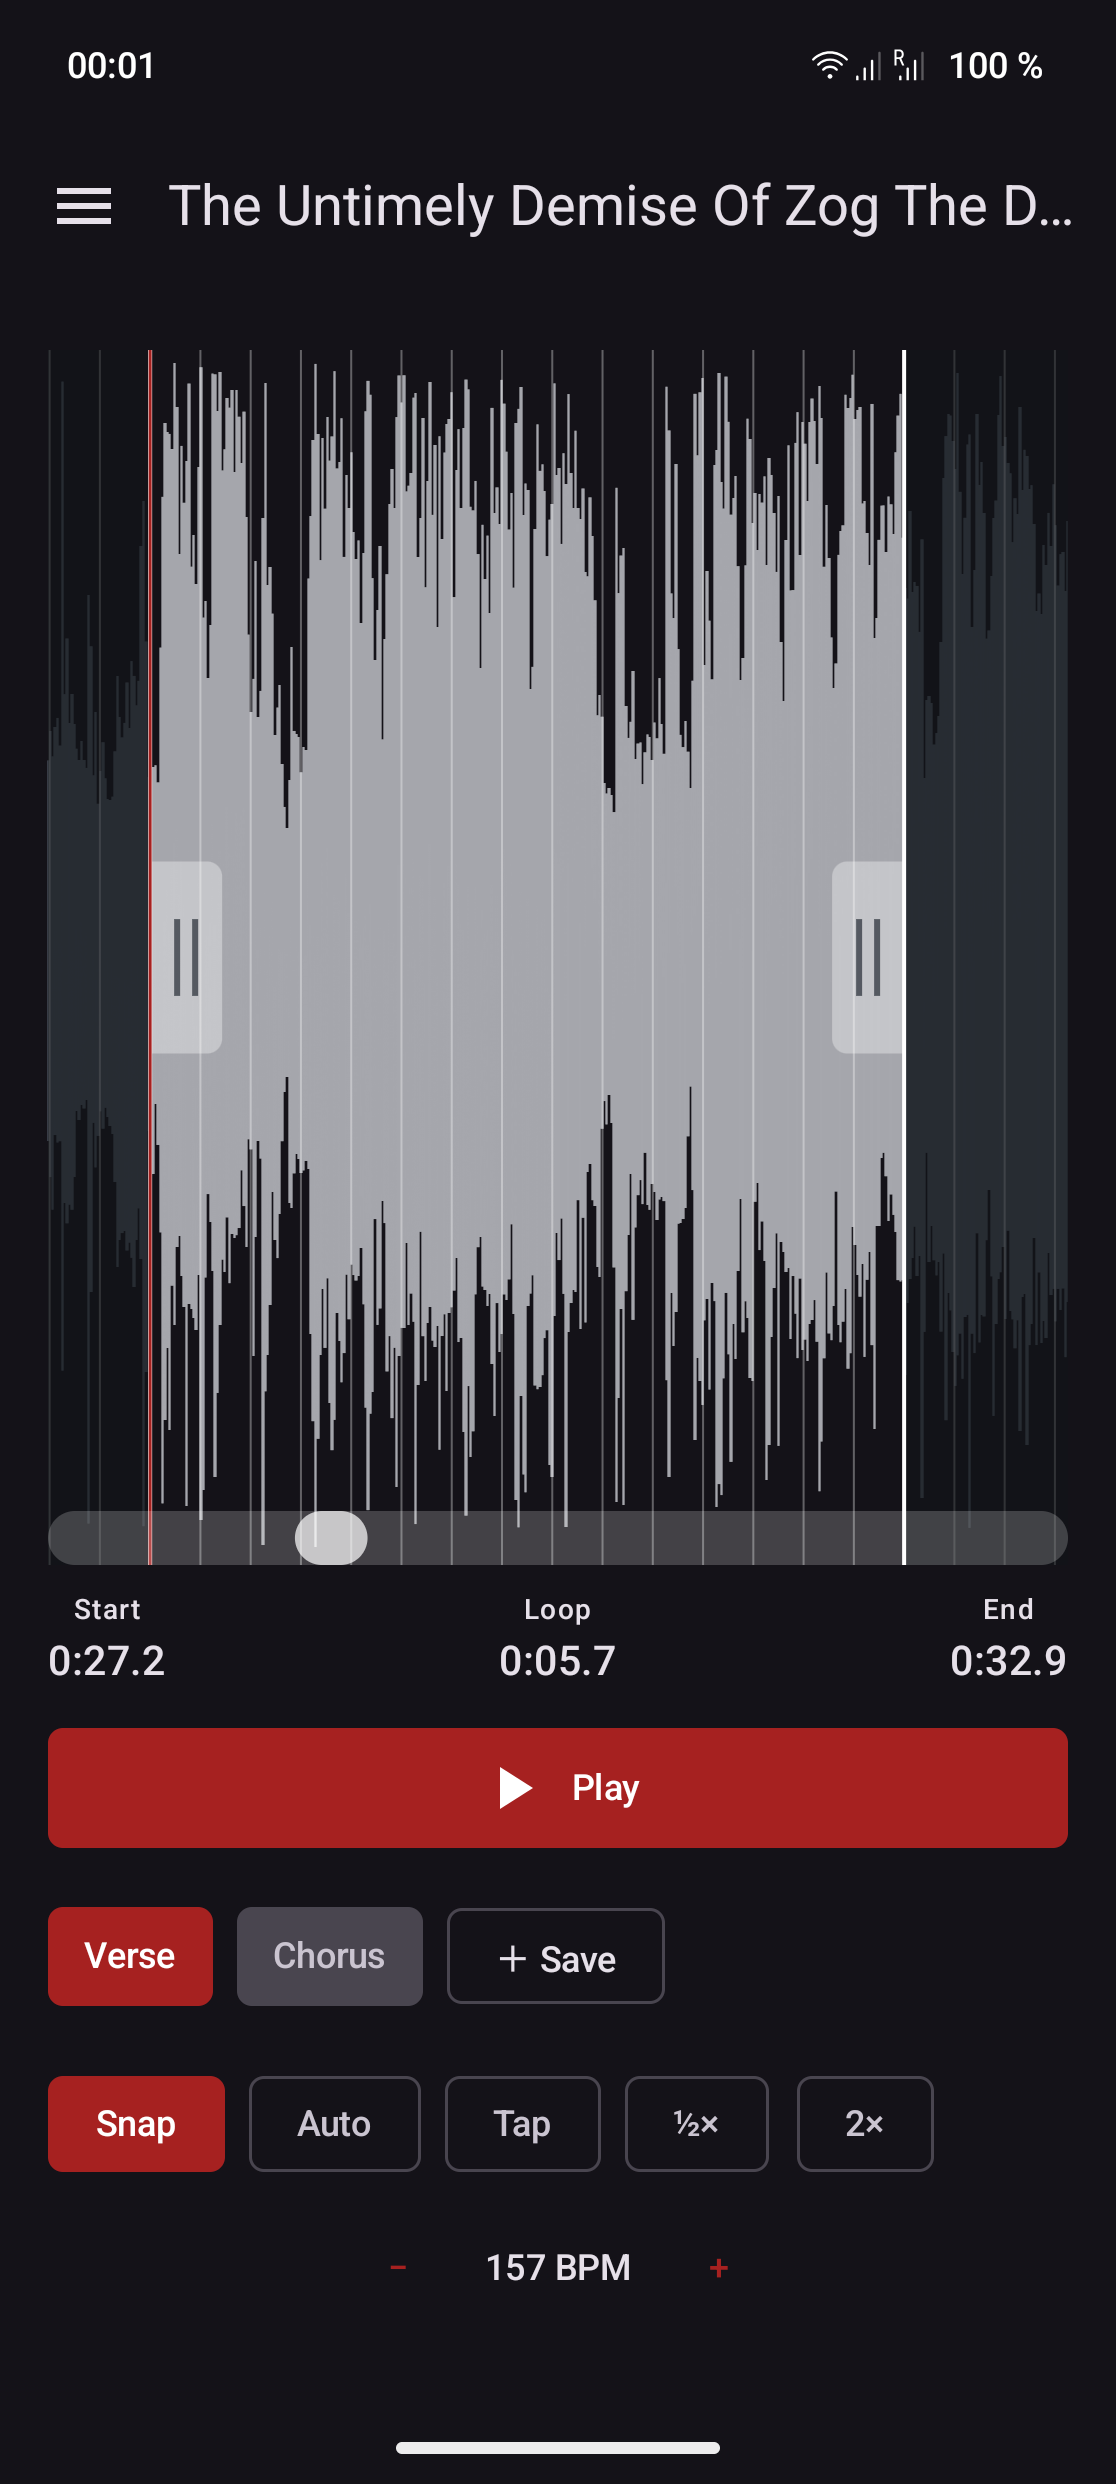
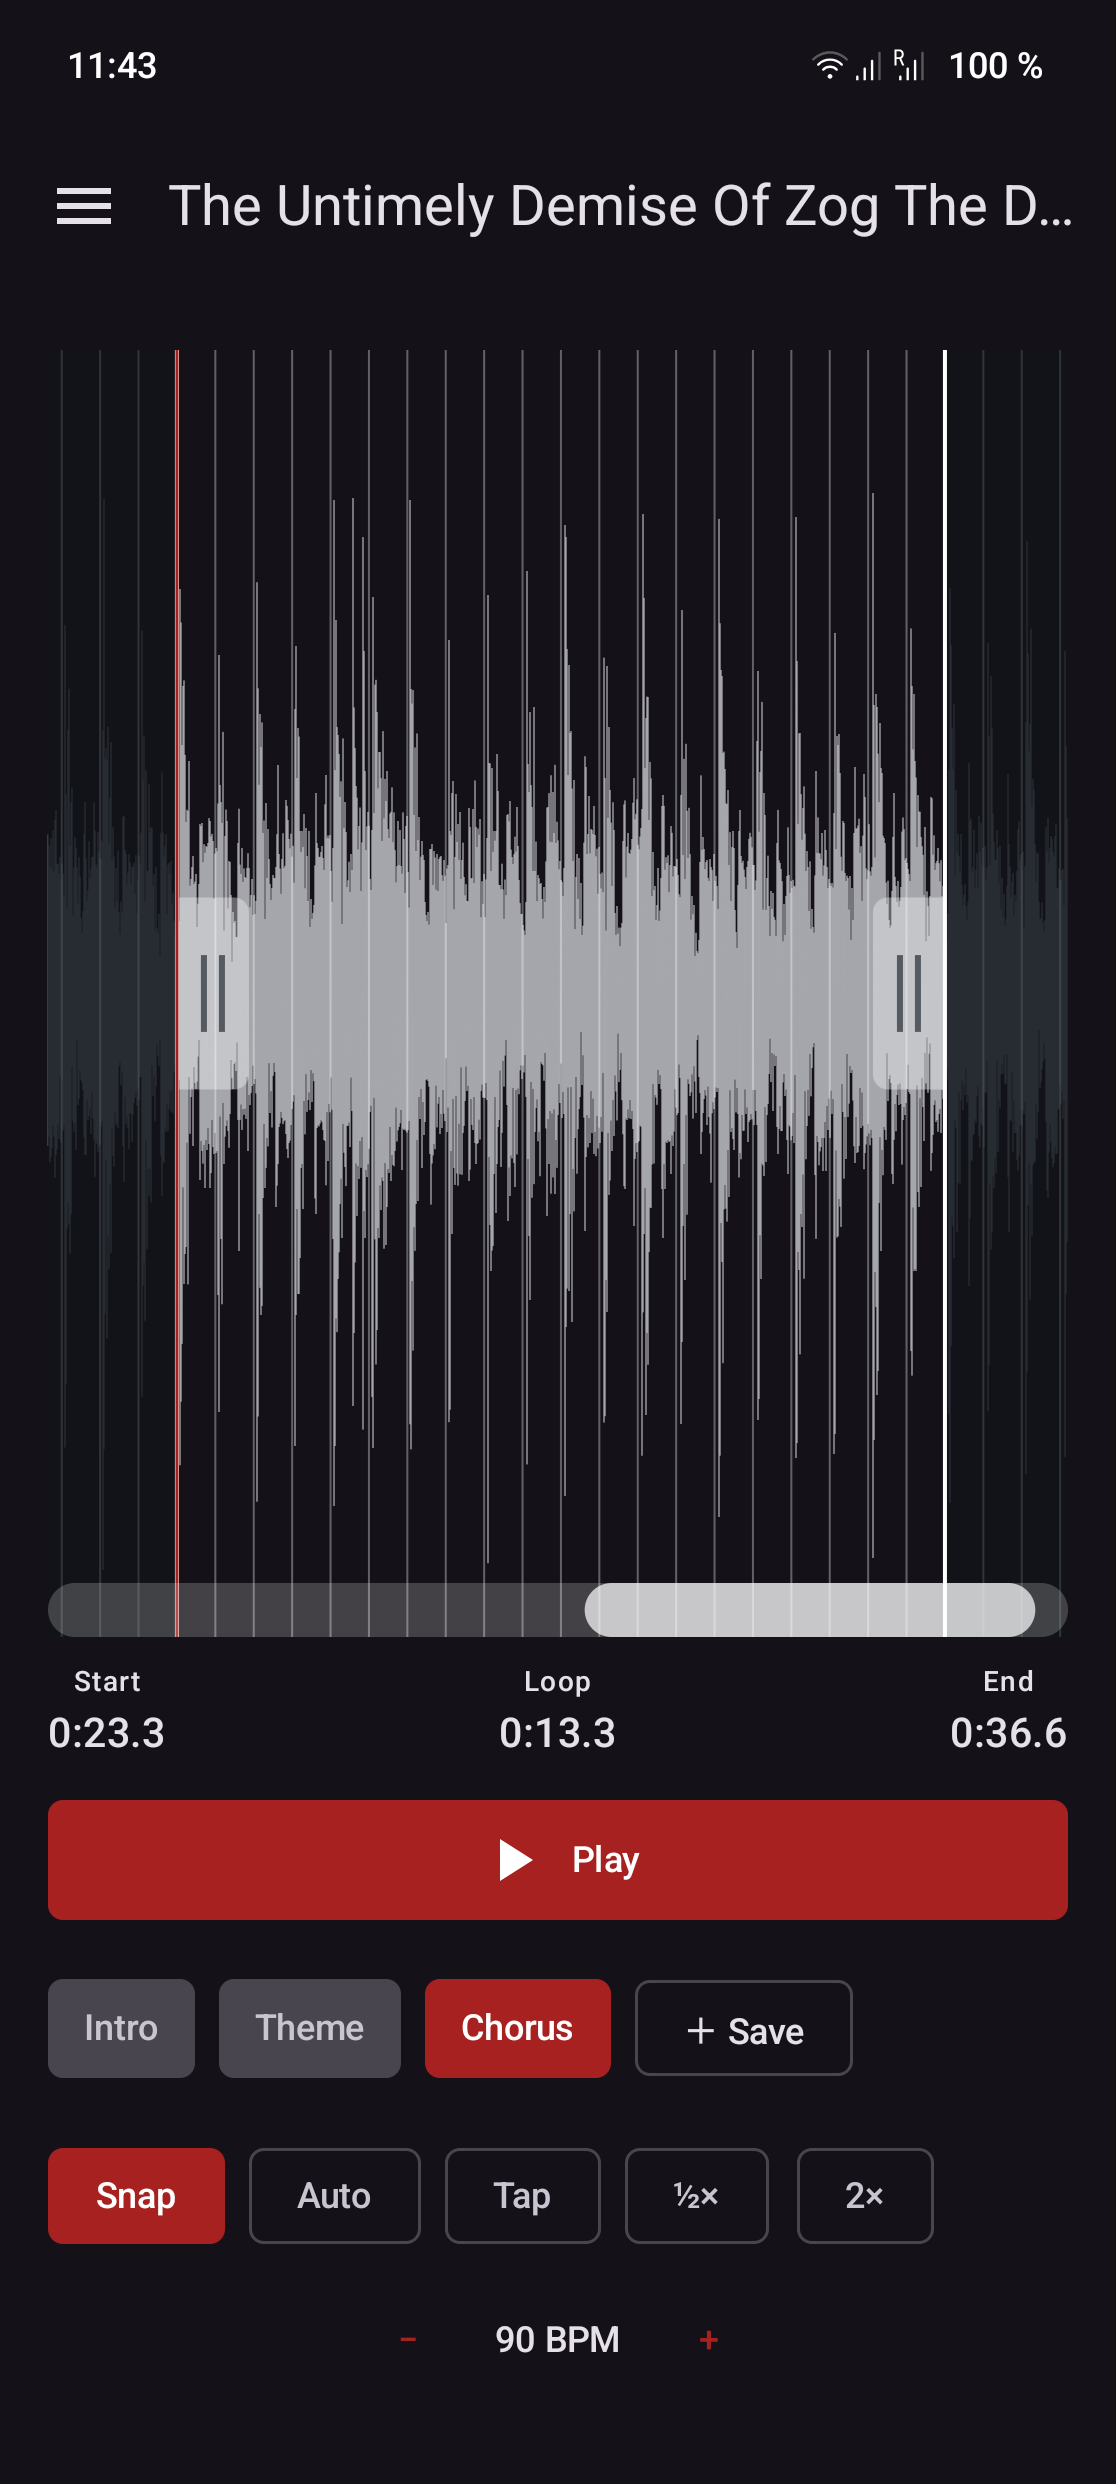
Prepare 0.2 release
Bump to versionName 0.2 / versionCode 2 and update the F-Droid metadata for a
first submission: single 0.2 build entry, current version 0.2, a changelog for
versionCode 2, refreshed feature list, and new screenshots (library, play view,
settings, drawer, plus a light-theme shot). Update the fdroiddata MR description
to 0.2.

diff --git a/fdroid/MR_DESCRIPTION.md b/fdroid/MR_DESCRIPTION.md
@@ -1,0 +1,45 @@
+# New app: Rubber Ring (de.singular.looper)
+
+Adds `metadata/de.singular.looper.yml` for **Rubber Ring**, a tool for practicing
+song parts: pick an audio file, mark a start/stop region on its waveform, and play it
+back in a seamless, gapless loop, with an auto-detected (and hand-editable) beat grid.
+
+- **Source:** https://github.com/mkay/RubberRing
+- **License:** GPL-3.0-only
+- **Package:** `de.singular.looper`
+- **Build:** versionName `0.2`, versionCode `2`, tag `v0.2`
+
+## FOSS compliance
+
+- [x] GPL-3.0-only, `LICENSE` file in repo root.
+- [x] No proprietary dependencies — only AndroidX / Jetpack Compose (Apache-2.0),
+      resolved from Google's Maven and Maven Central.
+- [x] No trackers, no ads, no analytics.
+- [x] No non-free network services; the app requests **zero** permissions and has no
+      network access.
+- [x] No signing config committed; no prebuilt binaries in the repo.
+
+## Build
+
+Current-toolchain app: AGP 9.2.1 / Gradle 9.5.1 / compileSdk 36, Java 17. The release
+build is a plain `assembleRelease` — no minification, no signing config — and resolves
+only AndroidX / Jetpack Compose artifacts from Google's Maven and Maven Central.
+
+An earlier tag built cleanly from a clean checkout in F-Droid's buildserver image
+(`registry.gitlab.com/fdroid/fdroidserver:buildserver`): `gradlew-fdroid` accepted
+Gradle 9.5.1 (transparency-log verified) and AGP 9.2.1 auto-provisioned `android-36` +
+`build-tools 36.0.0`, producing the unsigned APK. `v0.2` adds only Kotlin/Compose UI
+changes and metadata over that tag — no new runtime dependencies (the one addition,
+JUnit, is test-only and not in the release APK). Please flag if the production
+buildserver's SDK/AGP provisioning differs for `v0.2`.
+
+## Metadata
+
+Fastlane metadata (title, short/full descriptions, icon, phone screenshots) is provided
+in-repo under `fastlane/metadata/android/en-US/` and will be picked up automatically.
+
+## Checklist
+
+- [x] `fdroid lint de.singular.looper` passes (or: please advise on any lint output).
+- [x] `fdroid readmeta` / `fdroid rewritemeta` clean.
+- [x] AutoUpdateMode / UpdateCheckMode set to Tags for future releases.